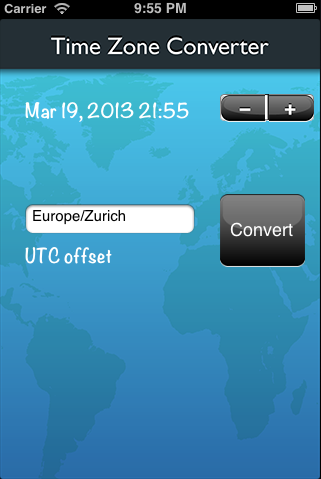
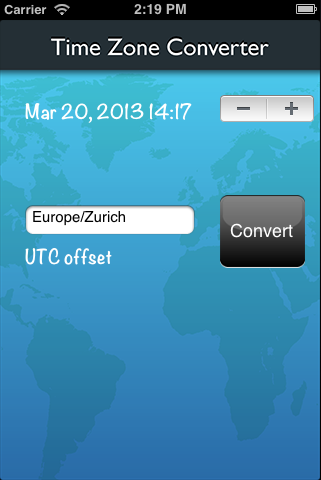
Non style to uistepper

diff --git a/Code/02-FirstApplication/solution/TimeZoneConverter/app/root_view_uitilities.rb b/Code/02-FirstApplication/solution/TimeZoneConverter/app/root_view_uitilities.rb
@@ -36,22 +36,6 @@ module UI_Elements
   def ui_stepper (xPosition,yPosition)
 
     stepper = UIStepper.alloc.initWithFrame (CGRectMake(xPosition,yPosition, 30, 30))
-    
-    minusUnSelected = UIImage.imageNamed("btnMinusUnselected.png")
-    minusSelected = UIImage.imageNamed("btnMinusSelected.png")
-    plusUnSelected  = UIImage.imageNamed("btnPlusUnselected.png")
-    plusSelected  = UIImage.imageNamed("btnPlusSelected.png")
-    divider = UIImage.imageNamed("bgDivider.png")
-
-    stepper.setBackgroundColor(UIColor.clearColor)
-    stepper.setDecrementImage(minusUnSelected, forState:UIControlStateNormal)
-    stepper.setDecrementImage(minusSelected, forState:UIControlStateHighlighted)
-
-    stepper.setIncrementImage(plusUnSelected, forState:UIControlStateNormal)
-    stepper.setIncrementImage(plusSelected, forState:UIControlStateHighlighted)
-
-    stepper.setDividerImage(divider, forLeftSegmentState:UIControlStateNormal, rightSegmentState:UIControlStateNormal)
-
     stepper.addTarget(self ,action: :'stepperPressed:', forControlEvents:UIControlEventValueChanged)
 
     stepper
